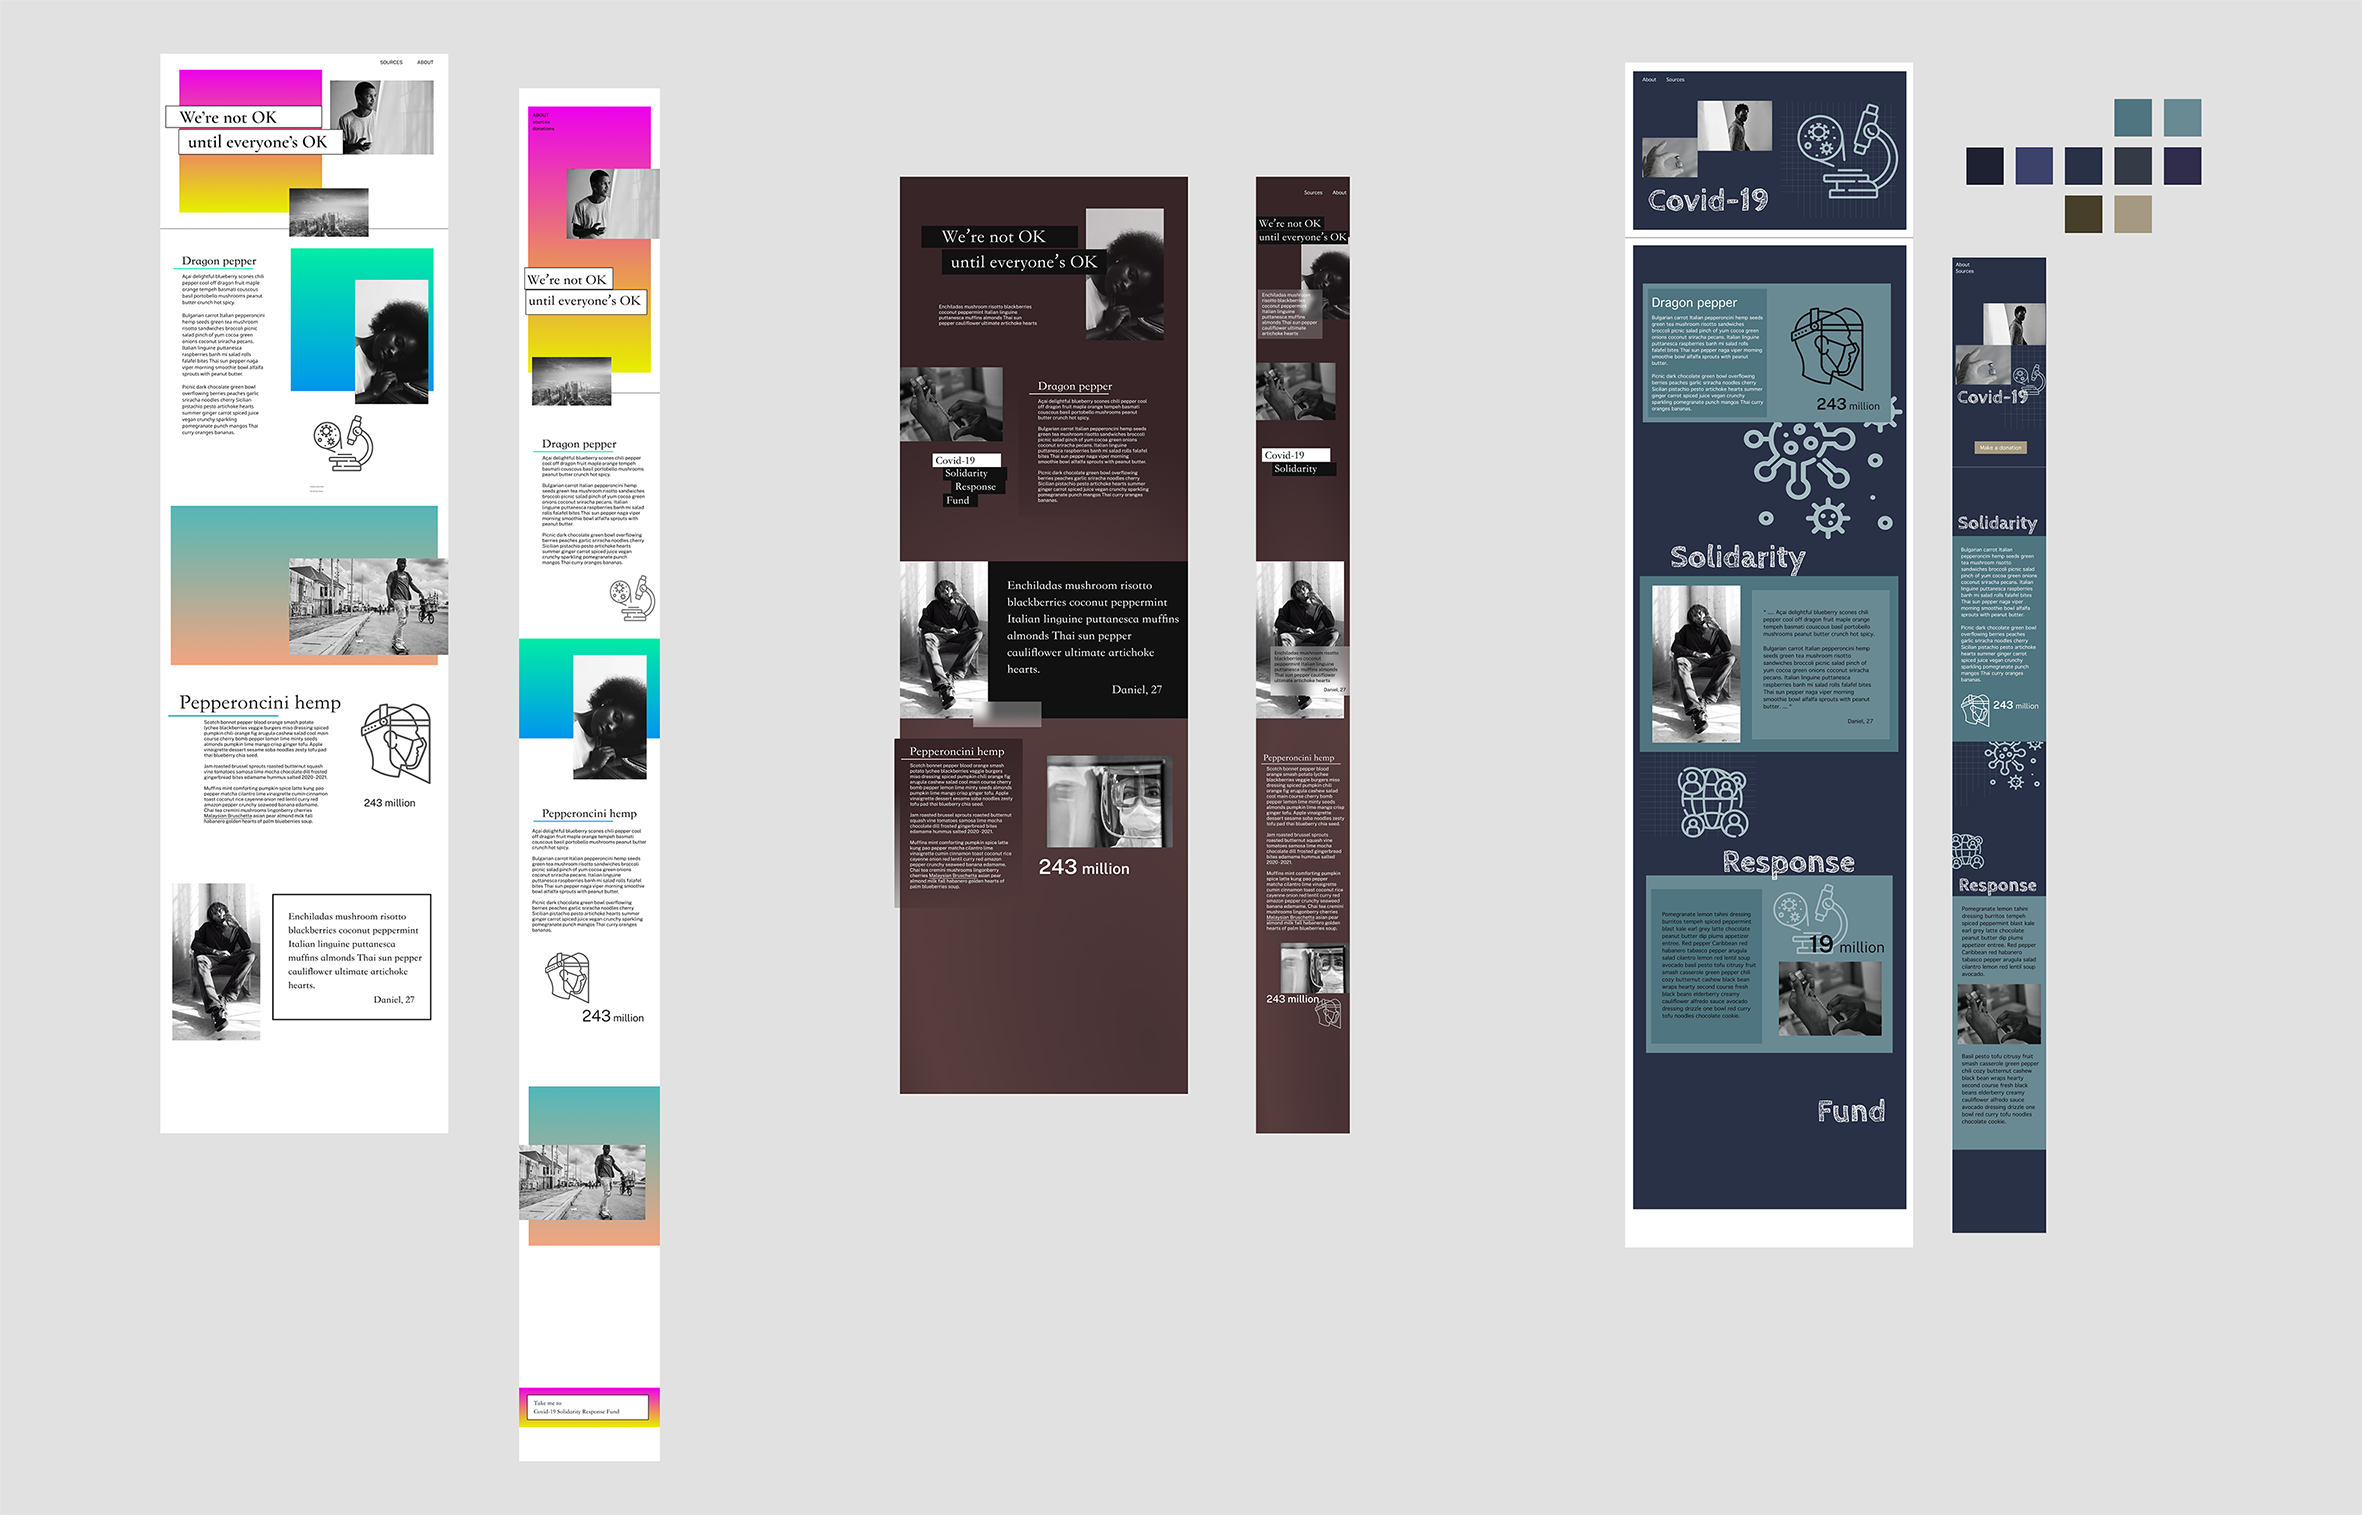
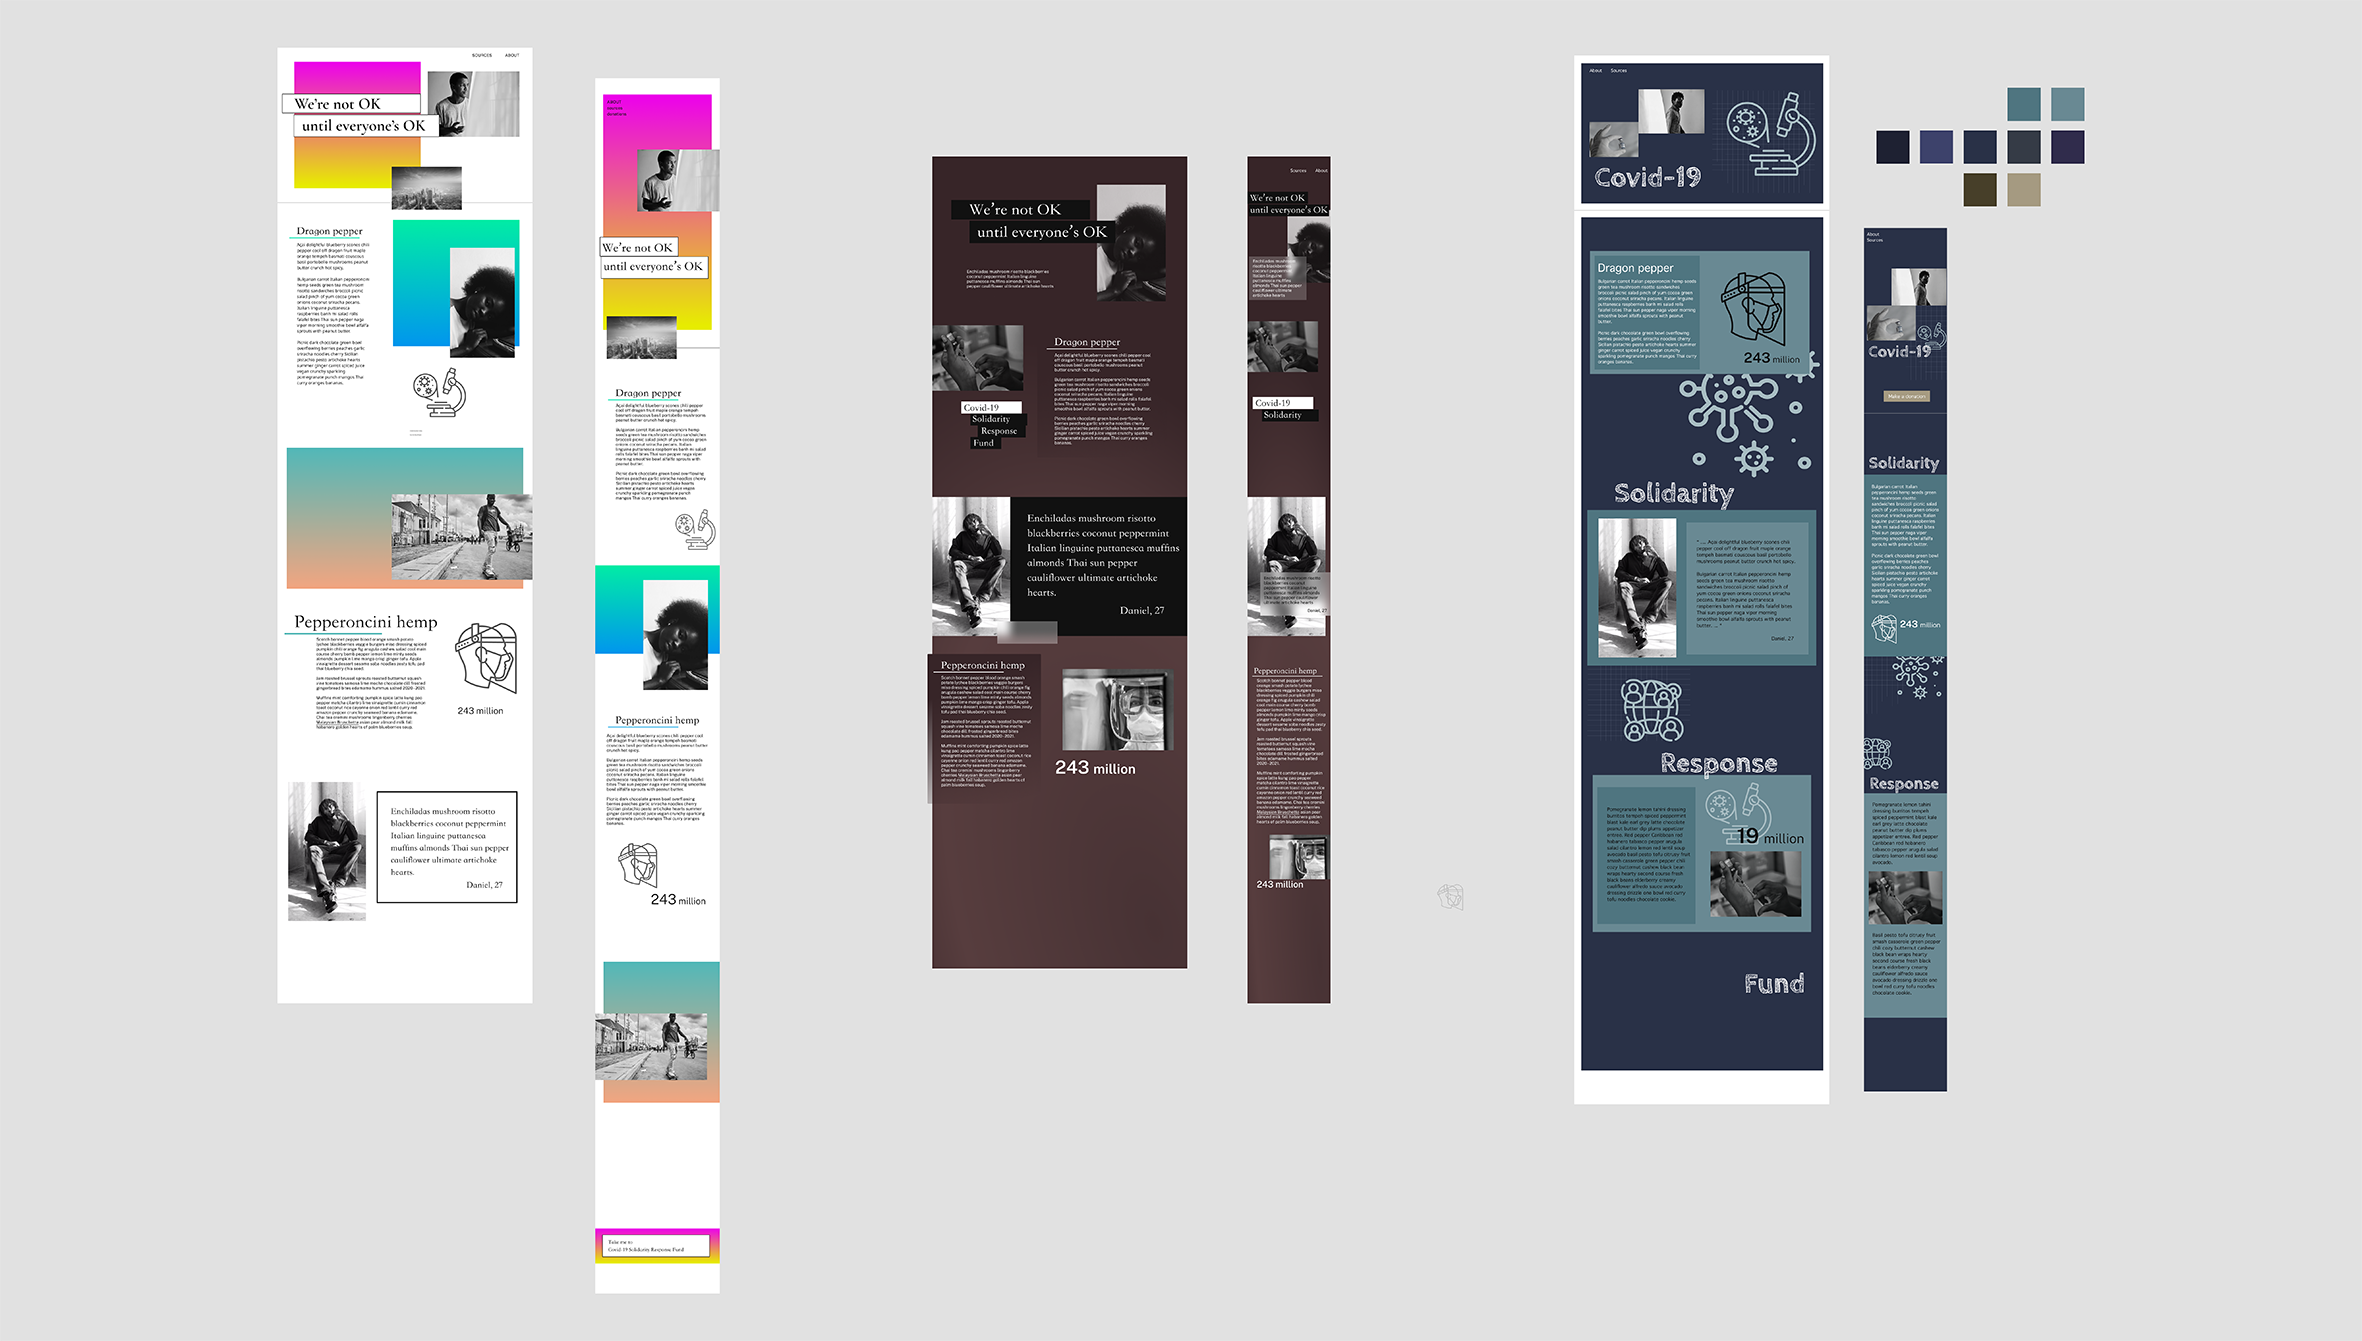
commit- changes to sizing and spacing

diff --git a/css/style.css b/css/style.css
@@ -144,20 +144,20 @@ h5 {
         /* background-color: red; */
         position: absolute;
         top: 10vh;
-        z-index: 10;
+
 
     }
-
 
     .first__hero-text-wrapper {
         /* background-color: red; */
         height: 600px;
-        width: 100vw;
+        width: 100%;
         display: flex;
         align-items: center;
         justify-content: center;
-        margin-left: 12px;
-        margin-right: 20px;
+        padding-left: 12px;
+        padding-right: 20px;
+                z-index: 10;
     }
 
 
@@ -230,6 +230,7 @@ h5 {
         min-height: 300px;
         height: 60vh;
         max-height: 800px;
+        width: 100%;
     }
 
 
@@ -238,6 +239,10 @@ h5 {
         position: absolute;
         top: 10vh;
         z-index: 10;
+        width: 100%;
+        max-width: 1400px;
+
+
     }
 
 
@@ -246,10 +251,15 @@ h5 {
         min-height: 300px;
         height: 60vh;
         max-height: 800px;
-        width: 100vw;
+        width: 100%;
+        max-width: 1400px;
+        margin-left: auto;
+        margin-right: auto;
         display: flex;
         align-items: center;
         justify-content: center;
+
+        /* transform: translateX(50%); */
     }
 
 }
@@ -1067,12 +1077,6 @@ h5 {
 /* ============ SKETCHING  ==========*/
 
 
-.case1__sketching {
-    min-height: 70vh;
-    /* margin-top: 80px; */
-    /* padding-top: 40px; */
-    padding-bottom: 120px;
-}
 
 .case1__sketching__image img {
     width: 98%;
@@ -1123,6 +1127,9 @@ h5 {
 @media screen and (min-width: 600px) {
 
     .case1__sketching {
+        min-height: 600px;
+        height: 60vh;
+        max-height: 700px;
         display: grid;
         grid-template-columns: repeat(12, 8.33%);
         grid-template-rows: repeat(10, 1fr);
@@ -1166,12 +1173,14 @@ h5 {
 /* ============= MID-FI ============*/
 
 .case1__mid-fi {
-    min-height: 70vh;
-    width: 100%;
+    min-height: 600px;
+    max-height: 760;
+    max-width: 1400px;
     background-image: url(../assets/case1-mid-fi.png);
     background-repeat: no-repeat;
     background-position-x: center;
-    background-size: cover;
+    background-position-Y: center;
+    background-size: contain;
     background-attachment: fixed;
 }
 

diff --git a/index.html b/index.html
@@ -4,7 +4,7 @@
 <head>
     <meta charset="UTF-8">
     <meta http-equiv="X-UA-Compatible" content="IE=edge">
-    <meta name="viewport" content="width=device-width, initial-scale=1.0">
+    <meta name="viewport" content="width=device-width, initial-scale=1.0, maximum-scale=device-width">
     <title>Portfolio 🚀 Magnus Jorde</title>
 
     <link rel="shortcut icon" href="assets/index__favicon__circle-dot.svg" type="image/x-icon">
@@ -28,7 +28,7 @@
     <meta property="og:type" content="website">
     <meta property="og:description" content="Online UX Portfolio">
     <meta property="og:site_name" content="Magnus Jorde | An online portfolio with some of my UX projects">
-    <!-- <meta property="og:image" content="https://raw.githubusercontent.com/ThumbsUpGif/T10-iii/main/media/icon_and_preview/T-10-preview.jpg"> -->
+    <meta property="og:image" content="https://www.magnusjorde.xyz/assets/raw_case2_phone-and-screen.png">
     <meta property="og:image:type" content="image/jpeg">
     <meta property="og:image:width" content="400">
     <meta property="og:image:height" content="800">
@@ -137,7 +137,6 @@
                 </div>
 
                 <div class="first__case-image-2">
-                    <!-- <img src="media/Y-case2-exploded-phone-2.png" alt="exploded view of phone"> -->
                     <img src="assets/Y_SmartphoneInHand_Edit1.png" alt="hand holding iphone">
                 </div>
 
